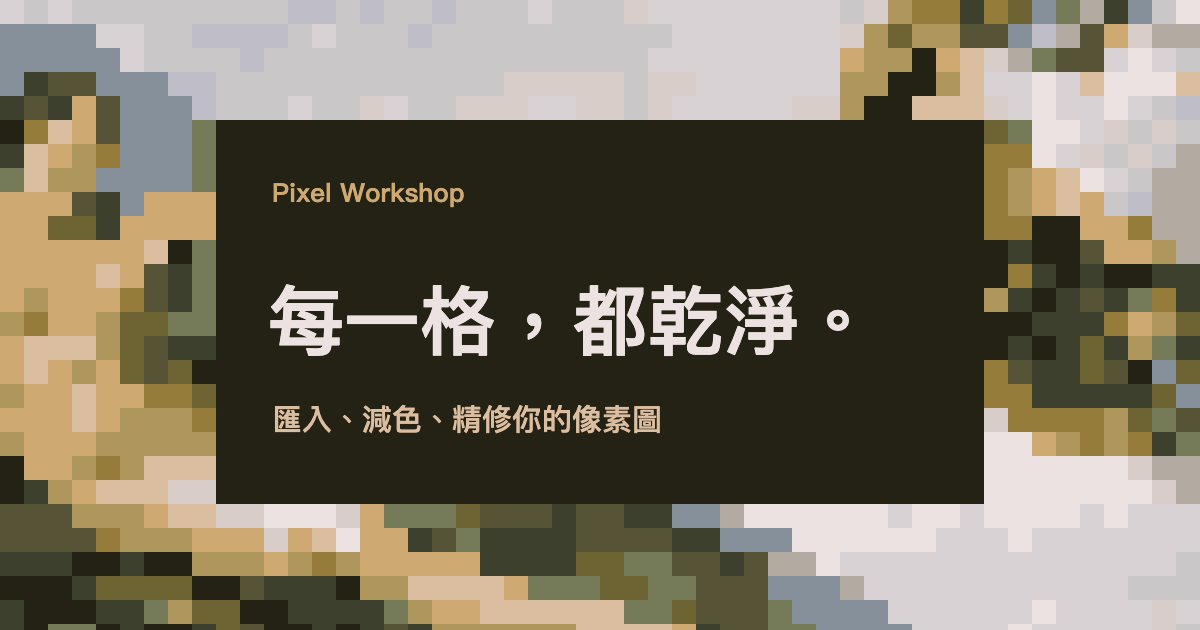
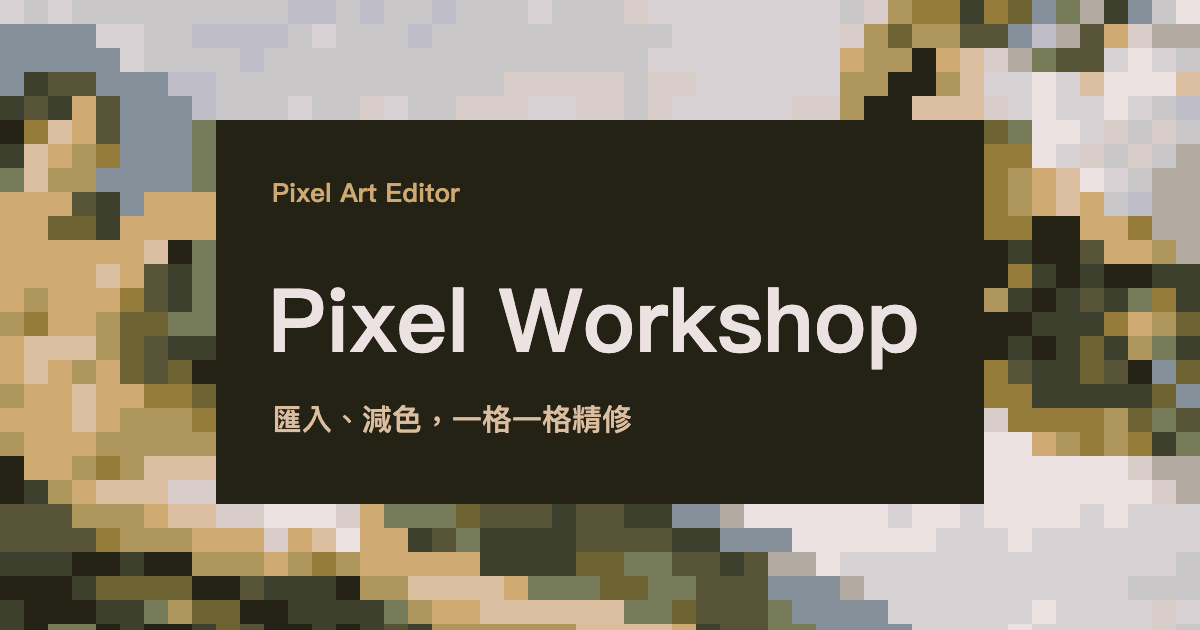
feat(pixel-editor): 分享圖改為類別、產品名、亮點三行文字
- 分享圖第一行改為類別「Pixel Art Editor」，大標改為產品名「Pixel Workshop」，
  第三行亮點潤飾為「匯入、減色，一格一格精修」
- 同步更新 og／twitter 的標題、描述與替代文字，並更新分享圖的 ?v= 快取版本

Changed region(s): [[0.2158, 0.4524, 0.7708, 0.6032], [0.37, 0.6333, 0.555, 0.6937], [0.2775, 0.2714, 0.4008, 0.3317]]

diff --git a/pixel-editor.html b/pixel-editor.html
@@ -11,19 +11,19 @@
 <link rel="apple-touch-icon" sizes="180x180" href="pixel-editor-apple-touch-icon.png">
 <meta property="og:type" content="website">
 <meta property="og:locale" content="zh_TW">
-<meta property="og:title" content="Pixel Workshop｜每一格，都乾淨。">
-<meta property="og:description" content="匯入、減色、精修你的像素圖。支援每格眾數色匯入、Game Boy 色盤與掌機風格轉換。">
+<meta property="og:title" content="Pixel Workshop｜Pixel Art Editor">
+<meta property="og:description" content="匯入、減色，一格一格精修。支援每格眾數色匯入、Game Boy 色盤與掌機風格轉換。">
 <meta property="og:url" content="https://ml-yoyohuang.github.io/tools/pixel-editor.html">
-<meta property="og:image" content="https://ml-yoyohuang.github.io/tools/pixel-editor-og.png?v=d705ef0301cc">
+<meta property="og:image" content="https://ml-yoyohuang.github.io/tools/pixel-editor-og.png?v=b211689cb935">
 <meta property="og:image:width" content="1200">
 <meta property="og:image:height" content="630">
 <meta property="og:image:type" content="image/png">
-<meta property="og:image:alt" content="Pixel Workshop：大地色像素風景滿版背景，中央深色方塊寫著『每一格，都乾淨。』">
+<meta property="og:image:alt" content="Pixel Workshop：大地色像素風景滿版背景，中央深色方塊寫著 Pixel Art Editor、Pixel Workshop 與『匯入、減色，一格一格精修』">
 <meta name="twitter:card" content="summary_large_image">
-<meta name="twitter:title" content="Pixel Workshop｜每一格，都乾淨。">
-<meta name="twitter:description" content="匯入、減色、精修你的像素圖。">
-<meta name="twitter:image" content="https://ml-yoyohuang.github.io/tools/pixel-editor-og.png?v=d705ef0301cc">
-<meta name="twitter:image:alt" content="Pixel Workshop：每一格，都乾淨。">
+<meta name="twitter:title" content="Pixel Workshop｜Pixel Art Editor">
+<meta name="twitter:description" content="匯入、減色，一格一格精修。">
+<meta name="twitter:image" content="https://ml-yoyohuang.github.io/tools/pixel-editor-og.png?v=b211689cb935">
+<meta name="twitter:image:alt" content="Pixel Workshop：Pixel Art Editor，匯入、減色，一格一格精修。">
 <style>
 :root {
   color-scheme: dark;
